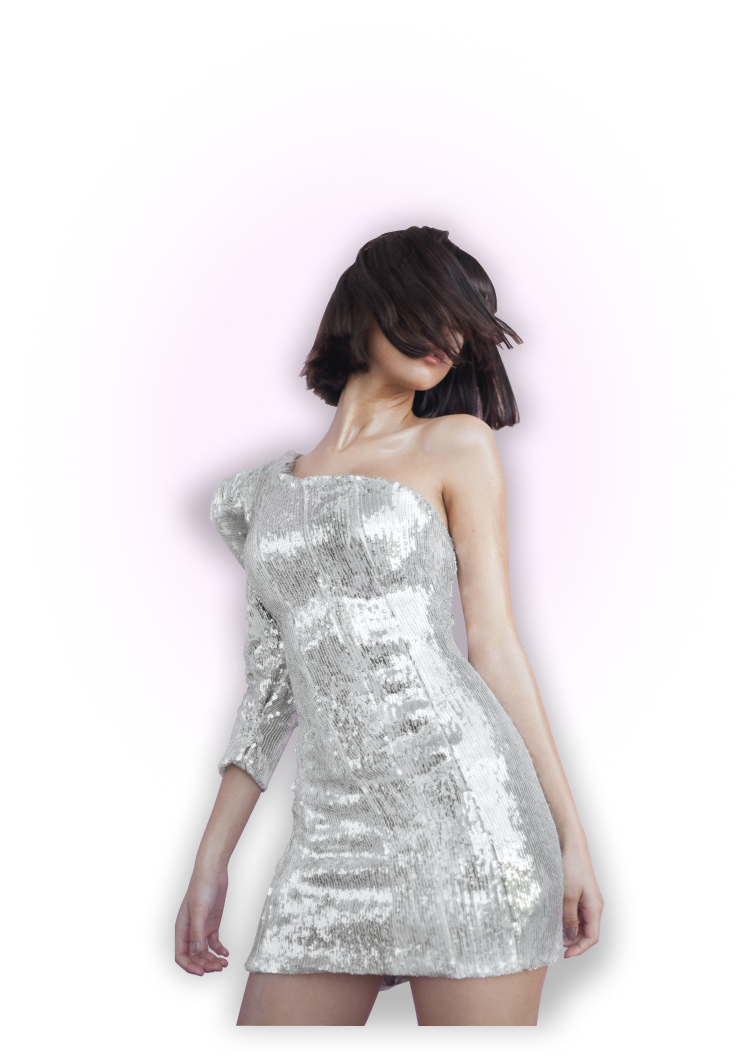
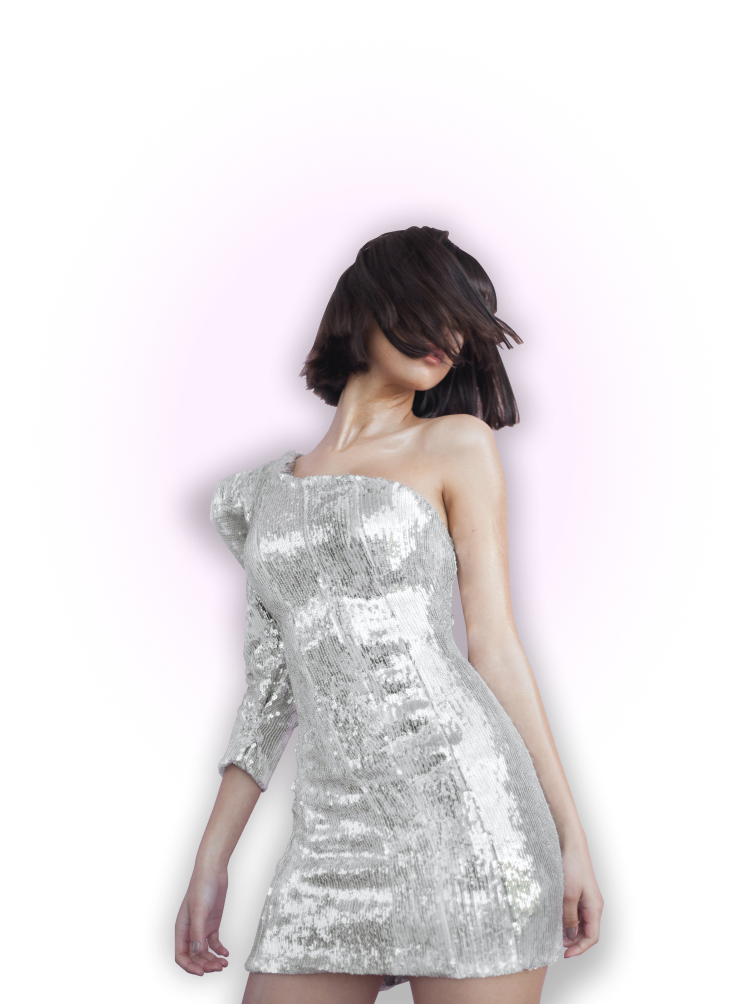
edit image on landing

Changed region(s): [[0.2147, 0.2161, 0.828, 1.0]]

diff --git a/src/components/Landing/styles.scss b/src/components/Landing/styles.scss
@@ -7,10 +7,9 @@
 
 .landing-img {
     position: absolute;
-    max-height: 40rem;
     width: 40vw;
     min-width: 20rem;
-    bottom: 0;
+    bottom: -0.65%;
     right: 10%;
     img{
         height: 100%;

diff --git a/src/App.js b/src/App.js
@@ -6,6 +6,7 @@ function App() {
     <div className="App">
      <Landing/>
      hghgj
+     vgvjh
     </div>
   );
 }

diff --git a/src/App.scss b/src/App.scss
@@ -1,5 +1,6 @@
 .App {
   text-align: center;
+  background-color: black;
 }
 
 .App-logo {
